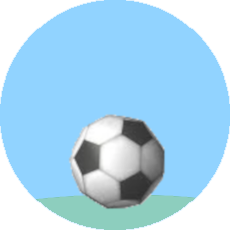
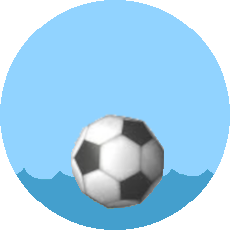
Animal Crossing Town Tickets v.1.1.0 by BrianMp16
Changelog:
1. Added 4 new tasks w/ task images!
2. Changed Kick a Ball in water task image.
3. Fixed crash in v1.0.1 when discarding a task.
4. Adjusted time the Ant can be caught.
5. Slight rebalance of tasks.

diff --git a/Animal Crossing Town Ticket Station/TaskData.cs b/Animal Crossing Town Ticket Station/TaskData.cs
@@ -15,66 +15,69 @@ namespace Animal_Crossing_Town_Ticket_Station
     internal class TaskData
     {
         private static readonly TaskInfo[] TaskInfoArray =
-        {
-           new TaskInfo("Win an item from an Igloo Villager", "Igloo", 1, 1, 100, 250, 1, 347, "Win an item from a Summer Camper", Properties.Resources.TK_Icon_Igloo),
-new TaskInfo("Win an item from a Summer Camper", "SummerCamper", 2, 1, 100, 250, 348, 386, "Complete a Villager Quest", Properties.Resources.TK_Icon_SummerCamper),
-new TaskInfo("Catch 5 Fish", "Fish5", 3, 5, 100, 150, 387, 695, "Kick a Ball in the water", Properties.Resources.TK_Icon_Fish5),
-new TaskInfo("Catch a X(Fish)", "Fish", 4, 1, 100, 0, 696, 1081, "Kick a Ball in the water", Properties.Resources.TK_Icon_Fish),
-new TaskInfo("Catch a piece of Trash", "Trash", 5, 1, 100, 250, 1082, 1158, "Kick a Ball in the water", Properties.Resources.TK_Icon_Trash),
-new TaskInfo("Catch 5 Bugs", "Bug5", 6, 5, 100, 150, 1159, 1544, "Plant a Tree", Properties.Resources.TK_Icon_Bug5),
-new TaskInfo("Catch a X(Bug)", "Bug", 7, 1, 100, 0, 1545, 1930, "Plant a Tree", Properties.Resources.TK_Icon_Bug),
-new TaskInfo("Change a Furniture item inside", "HouseFurn", 8, 1, 100, 100, 1931, 2090, "Write in your Diary", Properties.Resources.TK_Icon_HouseFurn),
-new TaskInfo("Change a Feng Shui item inside", "HouseFengshui", 9, 1, 100, 150, 2091, 2170, "Write in your Diary", Properties.Resources.TK_Icon_HouseFengshui),
-new TaskInfo("Write in your Diary", "HouseDiary", 10, 1, 100, 100, 2171, 2276, "Write in your Diary", Properties.Resources.TK_Icon_HouseDiary),
-new TaskInfo("Interact with 3 Furniture inside", "HouseFurn3", 11, 3, 100, 100, 2277, 2382, "Write in your Diary", Properties.Resources.TK_Icon_HouseFurn3),
-new TaskInfo("Interact with 2 Gyroids inside", "HouseGyroid2", 12, 2, 100, 100, 2383, 2462, "Interact with 3 Furniture inside", Properties.Resources.TK_Icon_HouseGyroid2),
-new TaskInfo("Complete a level in an NES game", "HouseNES", 13, 1, 100, 250, 2463, 2542, "Write in your Diary", Properties.Resources.TK_Icon_HouseNES),
-new TaskInfo("Change your K.K. Slider aircheck", "HouseKKSong", 14, 1, 100, 100, 2543, 2595, "Change a Furniture item inside", Properties.Resources.TK_Icon_HouseKKSong),
-new TaskInfo("Change your Gyroid Greeting", "HouseGyroid", 15, 1, 100, 100, 2596, 2648, "Write in your Diary", Properties.Resources.TK_Icon_HouseGyroid),
-new TaskInfo("Change your Door Decoration", "HouseDoor", 16, 1, 100, 100, 2649, 2701, "Write in your Diary", Properties.Resources.TK_Icon_HouseDoor),
-new TaskInfo("Sell 5,000 Bells at Nooks", "NookBells", 17, 5, 100, 200, 2702, 2892, "Sell an item to a Villager", Properties.Resources.TK_Icon_NookBells),
-new TaskInfo("Order an item from your catalog", "NookCatalog", 18, 1, 100, 100, 2893, 3055, "Mail a Letter with a Gift", Properties.Resources.TK_Icon_NookCatalog),
-new TaskInfo("Sell 5 seashells to Nook", "NookShells", 19, 5, 100, 150, 3056, 3191, "Eat something", Properties.Resources.TK_Icon_NookShells),
-new TaskInfo("Sell 2 Shirts to Nook", "NookShirt", 20, 2, 100, 150, 3192, 3327, "Change your shirt", Properties.Resources.TK_Icon_NookShirt),
-new TaskInfo("Sell 2 Furniture to Nook", "NookFurn", 21, 2, 100, 200, 3328, 3463, "Change a Furniture item inside", Properties.Resources.TK_Icon_NookFurn),
-new TaskInfo("Sell 2 Carpets to Nook", "NookCarpet", 22, 2, 100, 200, 3464, 3545, "Sell an item to a Villager", Properties.Resources.TK_Icon_NookCarpet),
-new TaskInfo("Sell 2 Wallpapers to Nook", "NookWallpaper", 23, 2, 100, 200, 3546, 3627, "Sell an item to a Villager", Properties.Resources.TK_Icon_NookWallpaper),
-new TaskInfo("Complete a Villager Quest", "VillagerQuest", 24, 1, 100, 150, 3628, 3841, "Write in your Diary", Properties.Resources.TK_Icon_VillagerQuest),
-new TaskInfo("Mail a Letter with a Gift", "VillagerLetter", 25, 1, 100, 100, 3842, 4055, "Write in your Diary", Properties.Resources.TK_Icon_VillagerLetter),
-new TaskInfo("See a Villager Whistle", "VillagerWhistle", 26, 1, 100, 200, 4056, 4197, "Write in your Diary", Properties.Resources.TK_Icon_VillagerWhistle),
-new TaskInfo("Give a Villager a new catchphrase", "VillagerCatchphrase", 27, 1, 100, 250, 4198, 4268, "Write in your Diary", Properties.Resources.TK_Icon_VillagerCatchphrase),
-new TaskInfo("Sell an item to a Villager", "VillagerSell", 28, 1, 100, 300, 4269, 4410, "Write in your Diary", Properties.Resources.TK_Icon_VillagerSell),
-new TaskInfo("Have your Roof Repainted", "VillagerRoof", 29, 1, 100, 400, 4411, 4481, "Sell an item to a Villager", Properties.Resources.TK_Icon_VillagerRoof),
-new TaskInfo("Fall in a Pitfall", "VillagerPitfall", 30, 1, 100, 450, 4482, 4552, "Sell an item to a Villager", Properties.Resources.TK_Icon_VillagerPitfall),
-new TaskInfo("Plant a Tree", "TreePlant", 31, 1, 100, 100, 4553, 4748, "Shake something out of a Tree", Properties.Resources.TK_Icon_TreePlant),
-new TaskInfo("Chop down a Tree", "TreeChop", 32, 1, 100, 150, 4749, 4860, "Plant a Tree", Properties.Resources.TK_Icon_TreeChop),
-new TaskInfo("Shake something out of a Tree", "TreeShake", 33, 1, 100, 100, 4861, 5028, "Write in your Diary", Properties.Resources.TK_Icon_TreeShake),
-new TaskInfo("Eat something", "TreeEat", 34, 1, 100, 100, 5029, 5168, "Write in your Diary", Properties.Resources.TK_Icon_TreeEat),
-new TaskInfo("Design a Pattern", "ShirtPattern", 35, 1, 100, 150, 5169, 5284, "Change your shirt", Properties.Resources.TK_Icon_ShirtPattern),
-new TaskInfo("Change your shirt", "ShirtChange", 36, 1, 100, 50, 5285, 5400, "Write in your Diary", Properties.Resources.TK_Icon_ShirtChange),
-new TaskInfo("Change the menu background", "ShirtMenu", 37, 1, 100, 50, 5401, 5516, "Write in your Diary", Properties.Resources.TK_Icon_ShirtMenu),
-new TaskInfo("Spin an Umbrella", "ShirtUmbrella", 38, 1, 100, 50, 5517, 5632, "Write in your Diary", Properties.Resources.TK_Icon_ShirtUmbrella),
-new TaskInfo("Catch a Balloon in a Tree", "TownBalloon", 39, 1, 100, 400, 5633, 5691, "Write in your Diary", Properties.Resources.TK_Icon_TownBalloon),
-new TaskInfo("Write a message on the Message Board", "TownMessage", 40, 1, 100, 100, 5692, 5839, "Write in your Diary", Properties.Resources.TK_Icon_TownMessage),
-new TaskInfo("Change your Town Tune", "TownTune", 41, 1, 100, 100, 5840, 6017, "Write in your Diary", Properties.Resources.TK_Icon_TownTune),
-new TaskInfo("Kick a Ball in the water", "TownBall", 42, 1, 100, 150, 6018, 6165, "Write in your Diary", Properties.Resources.TK_Icon_TownBall),
-new TaskInfo("Add or move a Sign Board", "TownSign", 43, 1, 100, 100, 6166, 6313, "Write a message on the Message Board", Properties.Resources.TK_Icon_TownSign),
-new TaskInfo("Confirm a Perfect Town", "TownPerfect", 44, 1, 100, 300, 6314, 6402, "Plant a Tree", Properties.Resources.TK_Icon_TownPerfect),
-new TaskInfo("Talk to Copper and Booker", "CharacterPolice", 45, 2, 100, 100, 6403, 6505, "Write in your Diary", Properties.Resources.TK_Icon_CharacterPolice),
-new TaskInfo("Talk to Sable and Mabel", "CharacterAbles", 46, 2, 100, 100, 6506, 6608, "Change your shirt", Properties.Resources.TK_Icon_CharacterAbles),
-new TaskInfo("Run around a Museum exhibit", "CharacterMuseum", 47, 1, 100, 100, 6609, 6711, "Write in your Diary", Properties.Resources.TK_Icon_CharacterMuseum),
-new TaskInfo("Redeem Town Tickets", "TicketsRedeem", 48, 1, 100, 200, 6712, 7328, "Write in your Diary", Properties.Resources.TK_Icon_TicketsRedeem),
-new TaskInfo("Comment on a BrianMp16 video", "TicketsComment", 49, 1, 100, 450, 7329, 7405, "Redeem Town Tickets", Properties.Resources.TK_Icon_TicketsComment),
-new TaskInfo("Like one of BrianMp16's videos", "TicketsLike", 50, 1, 100, 350, 7406, 7482, "Redeem Town Tickets", Properties.Resources.TK_Icon_TicketsLike),
-new TaskInfo("Catch a Fish on the Island", "IslandFish", 51, 1, 100, 250, 7483, 7568, "Catch 5 Fish", Properties.Resources.TK_Icon_IslandFish),
-new TaskInfo("Catch a Bug on the Island", "IslandBug", 52, 1, 100, 200, 7569, 7654, "Catch 5 Bugs", Properties.Resources.TK_Icon_IslandBug),
-new TaskInfo("Visit your Island House", "IslandHouse", 53, 1, 100, 150, 7655, 7740, "Change a Furniture item inside", Properties.Resources.TK_Icon_IslandHouse),
-new TaskInfo("Give your Islander a new catchphrase", "IslandNote", 54, 1, 100, 300, 7741, 7791, "Write a message on the Message Board", Properties.Resources.TK_Icon_IslandNote),
-new TaskInfo("Give your Islander a requested item", "IslandItem", 55, 1, 100, 400, 7792, 7842, "Sell an item to a Villager", Properties.Resources.TK_Icon_IslandItem),
-new TaskInfo("Plant a Coconut", "IslandCoconut", 56, 1, 100, 200, 7843, 7893, "Plant a Tree", Properties.Resources.TK_Icon_IslandCoconut),
-new TaskInfo("Change your Island Flag", "IslandFlag", 57, 1, 100, 150, 7894, 7944, "Change your Gyroid Greeting", Properties.Resources.TK_Icon_IslandFlag),
-new TaskInfo("Scan an E-reader card", "Ereader", 58, 1, 100, 100, 7945, 8191, "Mail a Letter with a Gift", Properties.Resources.TK_Icon_Ereader),
-new TaskInfo("Free 100,000 Tickets", "TicketsFree", 59, 1, 100, 100000, 8192, 8192, "Redeem Town Tickets", Properties.Resources.TK_Icon_TicketsFree),
+        {new TaskInfo("Win an item from an Igloo Villager", "Igloo", 1, 1, 100, 250, 1, 348, "Win an item from a Summer Camper", Properties.Resources.TK_Icon_Igloo),
+new TaskInfo("Win an item from a Summer Camper", "SummerCamper", 2, 1, 100, 250, 349, 387, "Complete a Villager Quest", Properties.Resources.TK_Icon_SummerCamper),
+new TaskInfo("Catch 5 Fish", "Fish5", 3, 5, 100, 150, 388, 773, "Kick a Ball in the water", Properties.Resources.TK_Icon_Fish5),
+new TaskInfo("Catch a X(Fish)", "Fish", 4, 1, 100, 0, 774, 1159, "Kick a Ball in the water", Properties.Resources.TK_Icon_Fish),
+new TaskInfo("Catch a piece of Trash", "Trash", 5, 1, 100, 250, 1160, 1236, "Kick a Ball in the water", Properties.Resources.TK_Icon_Trash),
+new TaskInfo("Catch a Fish while fishing off a cliff", "FishCliff", 6, 1, 100, 200, 1237, 1313, "Kick a Ball in the water", Properties.Resources.TK_Icon_FishCliff),
+new TaskInfo("Catch 5 Bugs", "Bug5", 7, 5, 100, 150, 1314, 1699, "Plant a Tree", Properties.Resources.TK_Icon_Bug5),
+new TaskInfo("Catch a X(Bug)", "Bug", 8, 1, 100, 0, 1700, 2085, "Plant a Tree", Properties.Resources.TK_Icon_Bug),
+new TaskInfo("See a Villager clap", "BugClap", 9, 1, 100, 250, 2086, 2162, "Plant a Tree", Properties.Resources.TK_Icon_BugClap),
+new TaskInfo("Change a Furniture item inside", "HouseFurn", 10, 1, 100, 100, 2163, 2322, "Write in your Diary", Properties.Resources.TK_Icon_HouseFurn),
+new TaskInfo("Change a Feng Shui item inside", "HouseFengshui", 11, 1, 100, 150, 2323, 2402, "Write in your Diary", Properties.Resources.TK_Icon_HouseFengshui),
+new TaskInfo("Write in your Diary", "HouseDiary", 12, 1, 100, 100, 2403, 2509, "Write in your Diary", Properties.Resources.TK_Icon_HouseDiary),
+new TaskInfo("Interact with 3 Furniture inside", "HouseFurn3", 13, 3, 100, 100, 2510, 2616, "Write in your Diary", Properties.Resources.TK_Icon_HouseFurn3),
+new TaskInfo("Interact with 2 Gyroids inside", "HouseGyroid2", 14, 2, 100, 100, 2617, 2696, "Interact with 3 Furniture inside", Properties.Resources.TK_Icon_HouseGyroid2),
+new TaskInfo("Complete a level in an NES game", "HouseNES", 15, 1, 100, 250, 2697, 2776, "Write in your Diary", Properties.Resources.TK_Icon_HouseNES),
+new TaskInfo("Change your K.K. Slider aircheck", "HouseKKSong", 16, 1, 100, 100, 2777, 2829, "Change a Furniture item inside", Properties.Resources.TK_Icon_HouseKKSong),
+new TaskInfo("Change your Gyroid Greeting", "HouseGyroid", 17, 1, 100, 100, 2830, 2882, "Write in your Diary", Properties.Resources.TK_Icon_HouseGyroid),
+new TaskInfo("Change your Door Decoration", "HouseDoor", 18, 1, 100, 100, 2883, 2935, "Write in your Diary", Properties.Resources.TK_Icon_HouseDoor),
+new TaskInfo("Sell 5,000 Bells at Nooks", "NookBells", 19, 5, 100, 200, 2936, 3120, "Sell something to a Villager", Properties.Resources.TK_Icon_NookBells),
+new TaskInfo("Order an item from your catalog", "NookCatalog", 20, 1, 100, 100, 3121, 3305, "Mail a Letter with a Gift", Properties.Resources.TK_Icon_NookCatalog),
+new TaskInfo("Sell 5 seashells to Nook", "NookShells", 21, 5, 100, 150, 3306, 3437, "Eat something", Properties.Resources.TK_Icon_NookShells),
+new TaskInfo("Sell 2 Shirts to Nook", "NookShirt", 22, 2, 100, 150, 3438, 3569, "Change your shirt", Properties.Resources.TK_Icon_NookShirt),
+new TaskInfo("Sell 2 Furniture to Nook", "NookFurn", 23, 2, 100, 200, 3570, 3701, "Change a Furniture item inside", Properties.Resources.TK_Icon_NookFurn),
+new TaskInfo("Sell 2 Carpets to Nook", "NookCarpet", 24, 2, 100, 200, 3702, 3780, "Sell something to a Villager", Properties.Resources.TK_Icon_NookCarpet),
+new TaskInfo("Sell 2 Wallpapers to Nook", "NookWallpaper", 25, 2, 100, 200, 3781, 3859, "Sell something to a Villager", Properties.Resources.TK_Icon_NookWallpaper),
+new TaskInfo("Complete a Villager Quest", "VillagerQuest", 26, 1, 100, 150, 3860, 4014, "Write in your Diary", Properties.Resources.TK_Icon_VillagerQuest),
+new TaskInfo("Mail a Letter with a Gift", "VillagerLetter", 27, 1, 100, 100, 4015, 4169, "Write in your Diary", Properties.Resources.TK_Icon_VillagerLetter),
+new TaskInfo("See a Villager Whistle", "VillagerWhistle", 28, 1, 100, 200, 4170, 4272, "Write in your Diary", Properties.Resources.TK_Icon_VillagerWhistle),
+new TaskInfo("Give a Villager a new catchphrase", "VillagerCatchphrase", 29, 1, 100, 250, 4273, 4324, "Write in your Diary", Properties.Resources.TK_Icon_VillagerCatchphrase),
+new TaskInfo("Sell something to a Villager", "VillagerSell", 30, 1, 100, 300, 4325, 4427, "Write in your Diary", Properties.Resources.TK_Icon_VillagerSell),
+new TaskInfo("Buy something from a Villager", "VillagerBuy", 31, 1, 100, 300, 4428, 4530, "Write in your Diary", Properties.Resources.TK_Icon_VillagerBuy),
+new TaskInfo("Have your Roof Repainted", "VillagerRoof", 32, 1, 100, 400, 4531, 4582, "Sell something to a Villager", Properties.Resources.TK_Icon_VillagerRoof),
+new TaskInfo("Fall in a Pitfall", "VillagerPitfall", 33, 1, 100, 450, 4583, 4634, "Sell something to a Villager", Properties.Resources.TK_Icon_VillagerPitfall),
+new TaskInfo("Plant a Tree", "TreePlant", 34, 1, 100, 100, 4635, 4831, "Shake something out of a Tree", Properties.Resources.TK_Icon_TreePlant),
+new TaskInfo("Chop down a Tree", "TreeChop", 35, 1, 100, 150, 4832, 4943, "Plant a Tree", Properties.Resources.TK_Icon_TreeChop),
+new TaskInfo("Shake something out of a Tree", "TreeShake", 36, 1, 100, 100, 4944, 5112, "Write in your Diary", Properties.Resources.TK_Icon_TreeShake),
+new TaskInfo("Eat something", "TreeEat", 37, 1, 100, 100, 5113, 5253, "Write in your Diary", Properties.Resources.TK_Icon_TreeEat),
+new TaskInfo("Design a Pattern", "ShirtPattern", 38, 1, 100, 150, 5254, 5369, "Change your shirt", Properties.Resources.TK_Icon_ShirtPattern),
+new TaskInfo("Change your shirt", "ShirtChange", 39, 1, 100, 50, 5370, 5485, "Write in your Diary", Properties.Resources.TK_Icon_ShirtChange),
+new TaskInfo("Change the menu background", "ShirtMenu", 40, 1, 100, 50, 5486, 5601, "Write in your Diary", Properties.Resources.TK_Icon_ShirtMenu),
+new TaskInfo("Spin an Umbrella", "ShirtUmbrella", 41, 1, 100, 50, 5602, 5717, "Write in your Diary", Properties.Resources.TK_Icon_ShirtUmbrella),
+new TaskInfo("Catch a Balloon in a Tree", "TownBalloon", 42, 1, 100, 400, 5718, 5776, "Write in your Diary", Properties.Resources.TK_Icon_TownBalloon),
+new TaskInfo("Write a message on the Message Board", "TownMessage", 43, 1, 100, 100, 5777, 5925, "Write in your Diary", Properties.Resources.TK_Icon_TownMessage),
+new TaskInfo("Change your Town Tune", "TownTune", 44, 1, 100, 100, 5926, 6103, "Write in your Diary", Properties.Resources.TK_Icon_TownTune),
+new TaskInfo("Kick a Ball in the water", "TownBall", 45, 1, 100, 150, 6104, 6192, "Write in your Diary", Properties.Resources.TK_Icon_TownBall),
+new TaskInfo("Kick a Ball off a cliff", "TownBallCliff", 46, 1, 100, 150, 6193, 6251, "Write in your Diary", Properties.Resources.TK_Icon_TownBallCliff),
+new TaskInfo("Add or move a Sign Board", "TownSign", 47, 1, 100, 100, 6252, 6400, "Write a message on the Message Board", Properties.Resources.TK_Icon_TownSign),
+new TaskInfo("Confirm a Perfect Town", "TownPerfect", 48, 1, 100, 250, 6401, 6489, "Plant a Tree", Properties.Resources.TK_Icon_TownPerfect),
+new TaskInfo("Talk to Copper and Booker", "CharacterPolice", 49, 2, 100, 100, 6490, 6592, "Write in your Diary", Properties.Resources.TK_Icon_CharacterPolice),
+new TaskInfo("Talk to Sable and Mabel", "CharacterAbles", 50, 2, 100, 100, 6593, 6695, "Change your shirt", Properties.Resources.TK_Icon_CharacterAbles),
+new TaskInfo("Run around a Museum exhibit", "CharacterMuseum", 51, 1, 100, 100, 6696, 6798, "Write in your Diary", Properties.Resources.TK_Icon_CharacterMuseum),
+new TaskInfo("Redeem Town Tickets", "TicketsRedeem", 52, 1, 100, 200, 6799, 7293, "Write in your Diary", Properties.Resources.TK_Icon_TicketsRedeem),
+new TaskInfo("Comment on a BrianMp16 video", "TicketsComment", 53, 1, 100, 450, 7294, 7355, "Redeem Town Tickets", Properties.Resources.TK_Icon_TicketsComment),
+new TaskInfo("Like one of BrianMp16's videos", "TicketsLike", 54, 1, 100, 350, 7356, 7417, "Redeem Town Tickets", Properties.Resources.TK_Icon_TicketsLike),
+new TaskInfo("Catch a Fish on the Island", "IslandFish", 55, 1, 100, 250, 7418, 7500, "Catch 5 Fish", Properties.Resources.TK_Icon_IslandFish),
+new TaskInfo("Catch a Bug on the Island", "IslandBug", 56, 1, 100, 200, 7501, 7583, "Catch 5 Bugs", Properties.Resources.TK_Icon_IslandBug),
+new TaskInfo("Visit your Island House", "IslandHouse", 57, 1, 100, 150, 7584, 7666, "Change a Furniture item inside", Properties.Resources.TK_Icon_IslandHouse),
+new TaskInfo("Give your Islander a new catchphrase", "IslandNote", 58, 1, 100, 300, 7667, 7716, "Write a message on the Message Board", Properties.Resources.TK_Icon_IslandNote),
+new TaskInfo("Give your Islander a requested item", "IslandItem", 59, 1, 100, 400, 7717, 7766, "Sell something to a Villager", Properties.Resources.TK_Icon_IslandItem),
+new TaskInfo("Plant a Coconut", "IslandCoconut", 60, 1, 100, 200, 7767, 7832, "Plant a Tree", Properties.Resources.TK_Icon_IslandCoconut),
+new TaskInfo("Change your Island Flag", "IslandFlag", 61, 1, 100, 150, 7833, 7882, "Change your Gyroid Greeting", Properties.Resources.TK_Icon_IslandFlag),
+new TaskInfo("Scan an E-reader card", "Ereader", 62, 1, 100, 150, 7883, 8191, "Mail a Letter with a Gift", Properties.Resources.TK_Icon_Ereader),
+new TaskInfo("Free 100,000 Tickets", "TicketsFree", 63, 1, 100, 100000, 8192, 8192, "Redeem Town Tickets", Properties.Resources.TK_Icon_TicketsFree),
 
  };
 

diff --git a/Animal Crossing Town Ticket Station/BugsData.cs b/Animal Crossing Town Ticket Station/BugsData.cs
@@ -43,7 +43,7 @@ new BugsInfo("Catch a Saw Stag Beetle", 30, new int?[12,2]{ {0,0}, {0,0}, {0,0},
 new BugsInfo("Catch a Mountain Beetle", 31, new int?[12,2]{ {0,0}, {0,0}, {0,0}, {0,0}, {0,0}, {0,0}, {31,1}, {31,1}, {0,0}, {0,0}, {0,0}, {0,0} }, new int?[24,2]{ {60,1}, {60,1}, {60,1}, {60,1}, {60,1}, {60,1}, {60,1}, {55,1}, {0,0}, {0,0}, {0,0}, {0,0}, {0,0}, {0,0}, {0,0}, {0,0}, {0,0}, {0,0}, {0,0}, {60,1}, {60,1}, {60,1}, {60,1}, {60,1} }, null, new int?[1,2]{ {0,0} }, 300, Properties.Resources.FB_Mountain_Beetle_PG_Field_Sprite_Upscaled),
 new BugsInfo("Catch a Giant Beetle", 32, new int?[12,2]{ {0,0}, {0,0}, {0,0}, {0,0}, {0,0}, {0,0}, {31,1}, {31,1}, {0,0}, {0,0}, {0,0}, {0,0} }, new int?[24,2]{ {60,1}, {60,1}, {60,1}, {60,1}, {60,1}, {60,1}, {60,1}, {55,1}, {0,0}, {0,0}, {0,0}, {0,0}, {0,0}, {0,0}, {0,0}, {0,0}, {0,0}, {0,0}, {0,0}, {0,0}, {0,0}, {0,0}, {0,0}, {60,1} }, null, new int?[1,2]{ {0,0} }, 500, Properties.Resources.FB_Giant_Beetle_PG_Field_Sprite_Upscaled),
 new BugsInfo("Catch a Pond Skater", 33, new int?[12,2]{ {0,0}, {0,0}, {0,0}, {0,0}, {0,0}, {31,1}, {31,1}, {31,1}, {31,1}, {0,0}, {0,0}, {0,0} }, new int?[24,2]{ {0,0}, {0,0}, {0,0}, {0,0}, {0,0}, {0,0}, {0,0}, {0,0}, {60,1}, {60,1}, {60,1}, {60,1}, {60,1}, {60,1}, {60,1}, {60,1}, {60,1}, {60,1}, {55,1}, {0,0}, {0,0}, {0,0}, {0,0}, {0,0} }, null, new int?[1,2]{ {0,0} }, 400, Properties.Resources.FB_Pond_Skater_PG_Field_Sprite_Upscaled),
-new BugsInfo("Catch an Ant", 34, new int?[12,2]{ {0,0}, {0,0}, {0,0}, {0,0}, {0,0}, {0,0}, {0,0}, {0,0}, {0,0}, {15,2}, {0,0}, {0,0} }, new int?[24,2]{ {0,0}, {0,0}, {0,0}, {0,0}, {0,0}, {0,0}, {0,0}, {0,0}, {0,0}, {60,1}, {60,1}, {60,1}, {60,1}, {60,1}, {60,1}, {60,1}, {60,1}, {60,1}, {60,1}, {60,1}, {60,1}, {55,1}, {0,0}, {0,0} }, null, new int?[1,2]{ {1,2} }, 200, Properties.Resources.FB_Ant_PG_Field_Sprite_Upscaled),
+new BugsInfo("Catch an Ant", 34, new int?[12,2]{ {31,1}, {31,1}, {31,1}, {31,1}, {31,1}, {31,1}, {31,1}, {31,1}, {31,1}, {31,1}, {31,1}, {31,1} }, new int?[24,2]{ {60,1}, {60,1}, {60,1}, {60,1}, {60,1}, {60,1}, {60,1}, {60,1}, {60,1}, {60,1}, {60,1}, {60,1}, {60,1}, {60,1}, {60,1}, {60,1}, {60,1}, {60,1}, {60,1}, {60,1}, {60,1}, {60,1}, {60,1}, {60,1} }, null, new int?[1,2]{ {1,2} }, 200, Properties.Resources.FB_Ant_PG_Field_Sprite_Upscaled),
 new BugsInfo("Catch a Pill Bug", 35, new int?[12,2]{ {31,1}, {31,1}, {31,1}, {31,1}, {31,1}, {31,1}, {31,1}, {31,1}, {31,1}, {31,1}, {31,1}, {31,1} }, new int?[24,2]{ {60,1}, {60,1}, {60,1}, {60,1}, {60,1}, {60,1}, {60,1}, {60,1}, {60,1}, {60,1}, {60,1}, {60,1}, {60,1}, {60,1}, {60,1}, {60,1}, {60,1}, {60,1}, {60,1}, {60,1}, {60,1}, {60,1}, {60,1}, {60,1} }, null, new int?[1,2]{ {0,0} }, 250, Properties.Resources.FB_Pill_Bug_PG_Field_Sprite_Upscaled),
 new BugsInfo("Catch a Mosquito", 36, new int?[12,2]{ {0,0}, {0,0}, {0,0}, {0,0}, {31,1}, {31,1}, {31,1}, {31,1}, {31,1}, {0,0}, {0,0}, {0,0} }, new int?[24,2]{ {0,0}, {0,0}, {0,0}, {0,0}, {0,0}, {0,0}, {0,0}, {0,0}, {0,0}, {0,0}, {0,0}, {0,0}, {0,0}, {0,0}, {0,0}, {0,0}, {0,0}, {60,1}, {60,1}, {60,1}, {60,1}, {60,1}, {55,1}, {0,0} }, null, new int?[1,2]{ {0,0} }, 250, Properties.Resources.FB_Mosquito_PG_Field_Sprite_Upscaled),
 new BugsInfo("Catch a Mole Cricket", 37, new int?[12,2]{ {31,1}, {31,1}, {31,1}, {31,1}, {31,1}, {0,0}, {0,0}, {0,0}, {0,0}, {0,0}, {31,1}, {31,1} }, new int?[24,2]{ {60,1}, {60,1}, {60,1}, {60,1}, {60,1}, {60,1}, {60,1}, {60,1}, {60,1}, {60,1}, {60,1}, {60,1}, {60,1}, {60,1}, {60,1}, {60,1}, {60,1}, {60,1}, {60,1}, {60,1}, {60,1}, {60,1}, {60,1}, {60,1} }, null, new int?[1,2]{ {0,0} }, 350, Properties.Resources.FB_Mole_Cricket_PG_Field_Sprite_Upscaled),

diff --git a/Animal Crossing Town Ticket Station/Properties/Resources.Designer.cs b/Animal Crossing Town Ticket Station/Properties/Resources.Designer.cs
@@ -15112,6 +15112,16 @@ namespace Animal_Crossing_Town_Ticket_Station.Properties {
         /// <summary>
         ///   Looks up a localized resource of type System.Drawing.Bitmap.
         /// </summary>
+        internal static System.Drawing.Bitmap TK_Icon_BugClap {
+            get {
+                object obj = ResourceManager.GetObject("TK_Icon_BugClap", resourceCulture);
+                return ((System.Drawing.Bitmap)(obj));
+            }
+        }
+        
+        /// <summary>
+        ///   Looks up a localized resource of type System.Drawing.Bitmap.
+        /// </summary>
         internal static System.Drawing.Bitmap TK_Icon_CharacterAbles {
             get {
                 object obj = ResourceManager.GetObject("TK_Icon_CharacterAbles", resourceCulture);
@@ -15225,6 +15235,16 @@ namespace Animal_Crossing_Town_Ticket_Station.Properties {
         internal static System.Drawing.Bitmap TK_Icon_Fish5 {
             get {
                 object obj = ResourceManager.GetObject("TK_Icon_Fish5", resourceCulture);
+                return ((System.Drawing.Bitmap)(obj));
+            }
+        }
+        
+        /// <summary>
+        ///   Looks up a localized resource of type System.Drawing.Bitmap.
+        /// </summary>
+        internal static System.Drawing.Bitmap TK_Icon_FishCliff {
+            get {
+                object obj = ResourceManager.GetObject("TK_Icon_FishCliff", resourceCulture);
                 return ((System.Drawing.Bitmap)(obj));
             }
         }
@@ -15772,6 +15792,16 @@ namespace Animal_Crossing_Town_Ticket_Station.Properties {
         /// <summary>
         ///   Looks up a localized resource of type System.Drawing.Bitmap.
         /// </summary>
+        internal static System.Drawing.Bitmap TK_Icon_TownBallCliff {
+            get {
+                object obj = ResourceManager.GetObject("TK_Icon_TownBallCliff", resourceCulture);
+                return ((System.Drawing.Bitmap)(obj));
+            }
+        }
+        
+        /// <summary>
+        ///   Looks up a localized resource of type System.Drawing.Bitmap.
+        /// </summary>
         internal static System.Drawing.Bitmap TK_Icon_TownBalloon {
             get {
                 object obj = ResourceManager.GetObject("TK_Icon_TownBalloon", resourceCulture);
@@ -15875,6 +15905,16 @@ namespace Animal_Crossing_Town_Ticket_Station.Properties {
         internal static System.Drawing.Bitmap TK_Icon_TreeShake {
             get {
                 object obj = ResourceManager.GetObject("TK_Icon_TreeShake", resourceCulture);
+                return ((System.Drawing.Bitmap)(obj));
+            }
+        }
+        
+        /// <summary>
+        ///   Looks up a localized resource of type System.Drawing.Bitmap.
+        /// </summary>
+        internal static System.Drawing.Bitmap TK_Icon_VillagerBuy {
+            get {
+                object obj = ResourceManager.GetObject("TK_Icon_VillagerBuy", resourceCulture);
                 return ((System.Drawing.Bitmap)(obj));
             }
         }

diff --git a/Animal Crossing Town Ticket Station/Tasks.cs b/Animal Crossing Town Ticket Station/Tasks.cs
@@ -695,6 +695,8 @@ namespace Animal_Crossing_Town_Ticket_Station
                 Tuple<BugsInfo, int> bugsCodeData = BugsData.GetBugCheckByIndex(new Random().Next(1, 41));
                 try
                 {
+                    if (bugsCodeData.Item1.Name == "Ant" && TaskCheckTimeNook(now, true, false, isFirstDay) == true)
+                        return bugsCodeData;
                     if (IsWithinTime(bugsCodeData.Item1.MonthArray, bugsCodeData.Item1.HourArray, null, bugsCodeData.Item1.WeatherArray, now) == true)
                         return bugsCodeData;
                 }
@@ -1195,6 +1197,7 @@ namespace Animal_Crossing_Town_Ticket_Station
                 intTasksAmount[intTask]--;
             else
             {
+
                 boolDiscardTask = true;
                 lblTaskDescription.Text = String.Format("Discard this task for {0} Tickets?", intTaskRemovePrice);
                 DialogResult dr = MessageBox.Show(String.Format("Do you want to discard this task for the cost of {0} Tickets?", intTaskRemovePrice), "Discard Task?", MessageBoxButtons.YesNoCancel, MessageBoxIcon.Question);
@@ -1209,13 +1212,19 @@ namespace Animal_Crossing_Town_Ticket_Station
                             if (intTasksLast[i] == 0 || i == intTasksMax - 1)
                                 intTasksLast[i] = intTasks[intTask];
                         }
+                        Tuple<TaskInfo, int> taskCodeData = TaskData.GetTaskCheckByIndex(intTasks[intTask]);
+                        switch (taskCodeData.Item1.Tag)
+                        {
+                            case "Fish": intFishTaskIndex = 0; break;
+                            case "Bug": intBugTaskIndex = 0; break;
+                            default: break;
+                        }
                         intTasks[intTask] = 0;
                         intTasksAmount[intTask] = 0;
                         intTicketsCurrent -= intTaskRemovePrice;
                         intTasksDiscarded++;
                         lblTaskDescription.Text = "";
-                        intBugTaskIndex = 0;
-                        intFishTaskIndex = 0;
+                        
 
                         if (intTaskRemovePrice < 500)
                             intTaskRemovePrice += 50;
